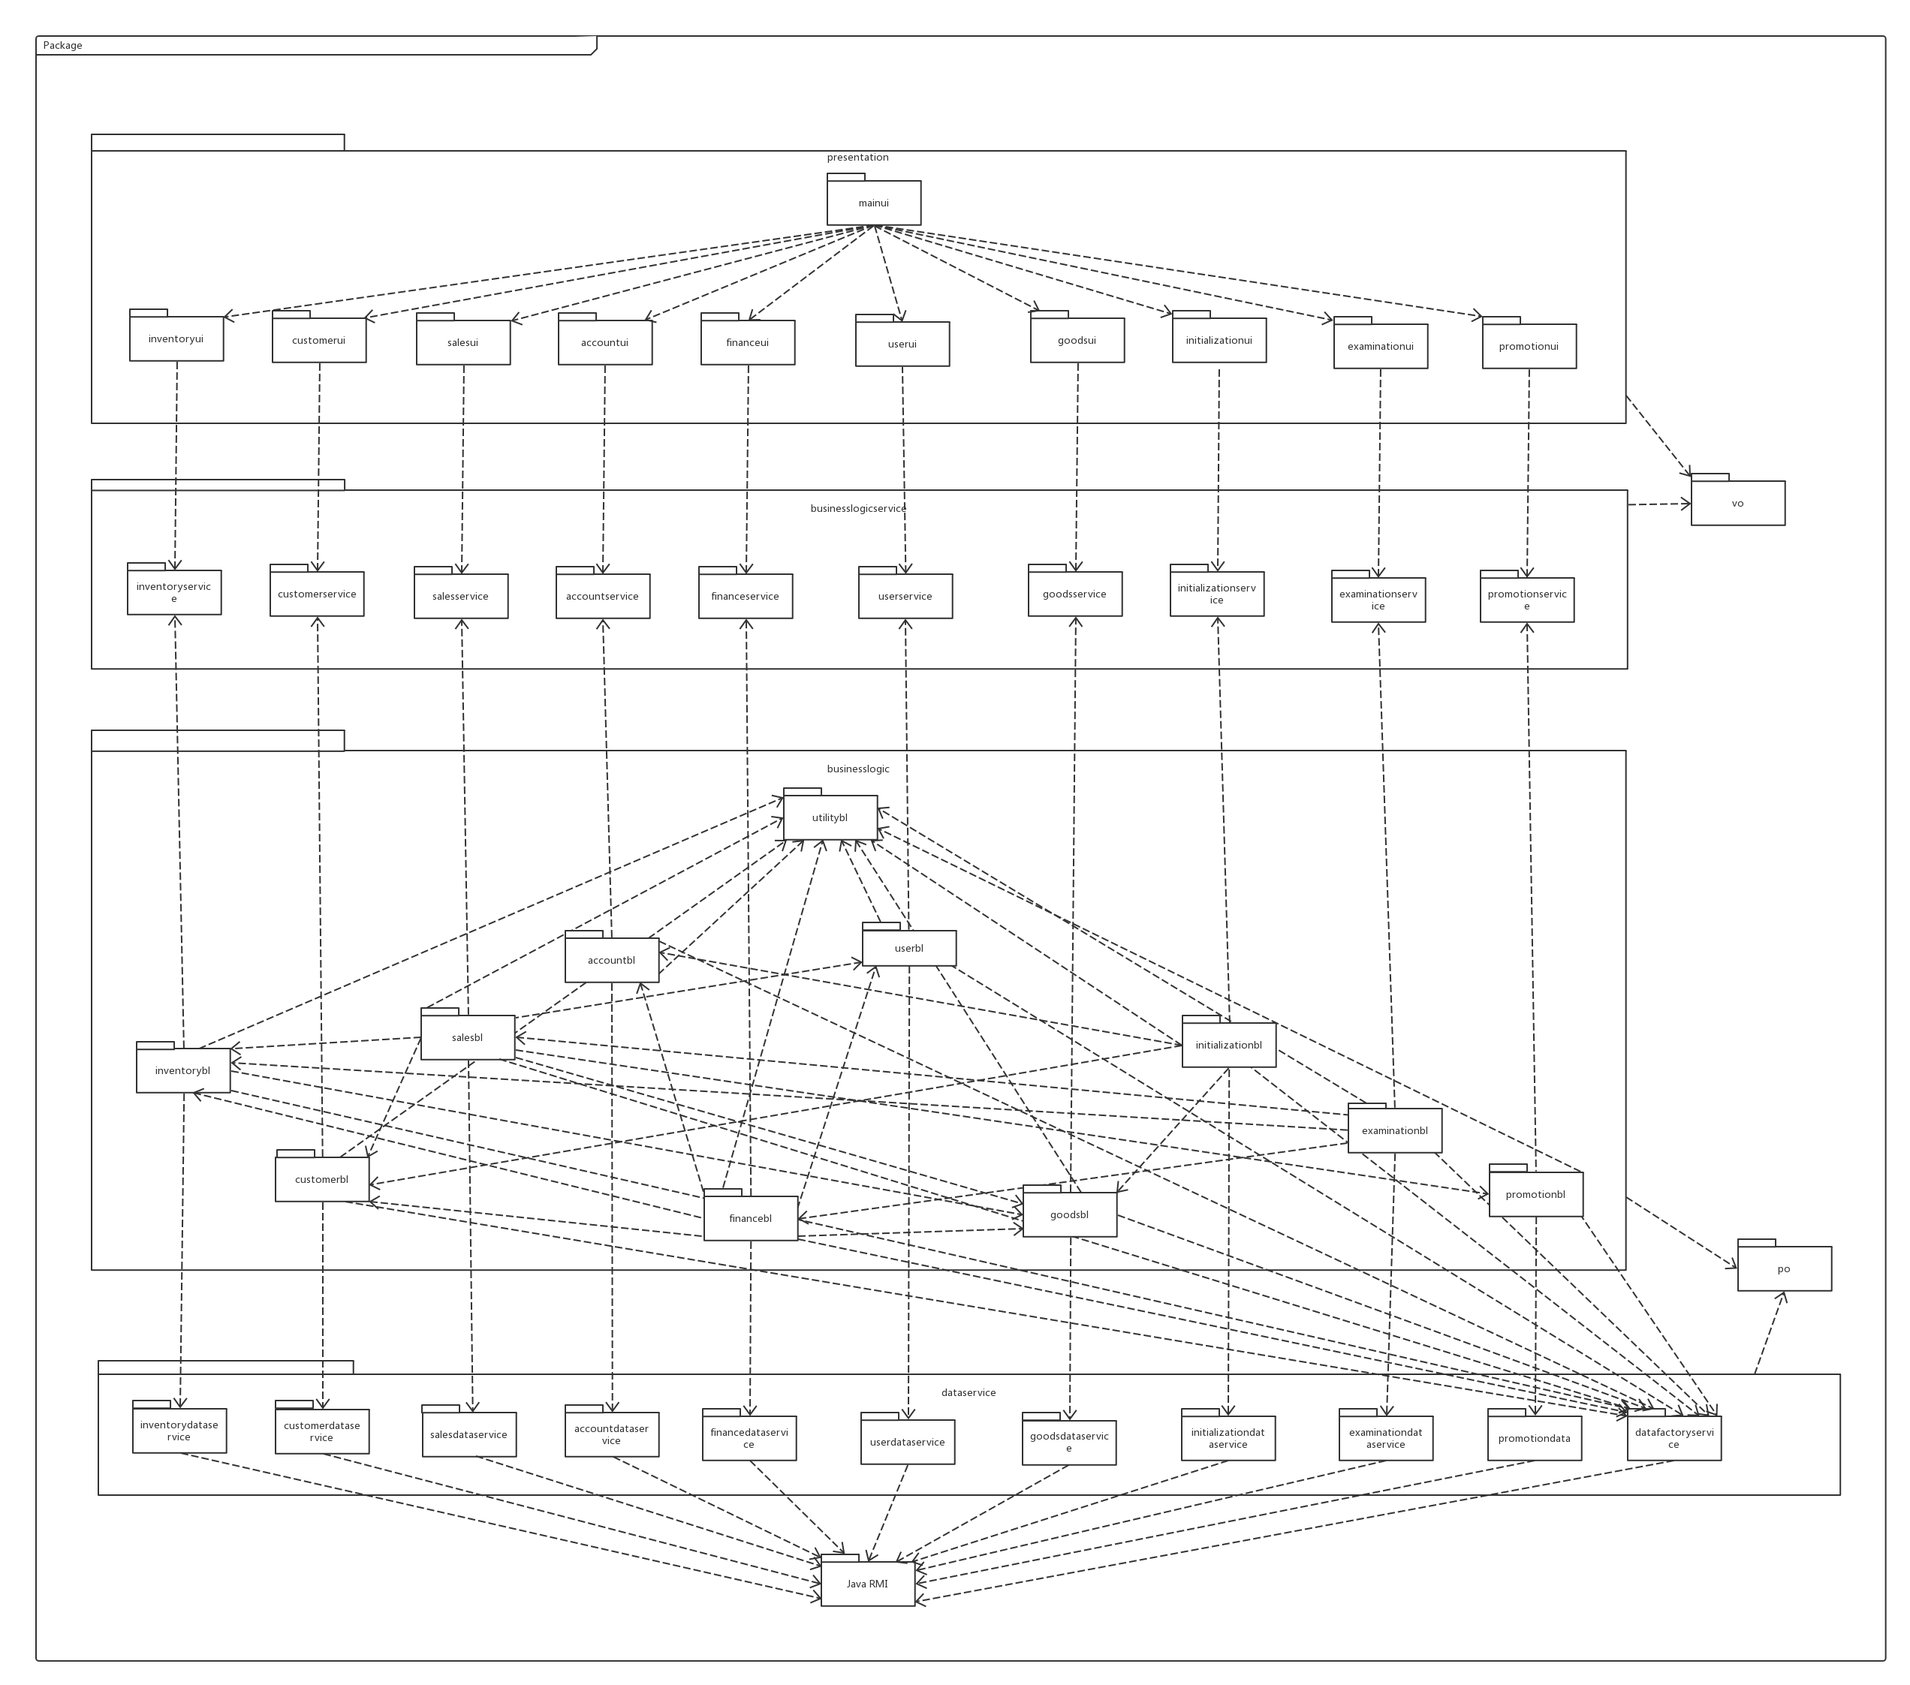
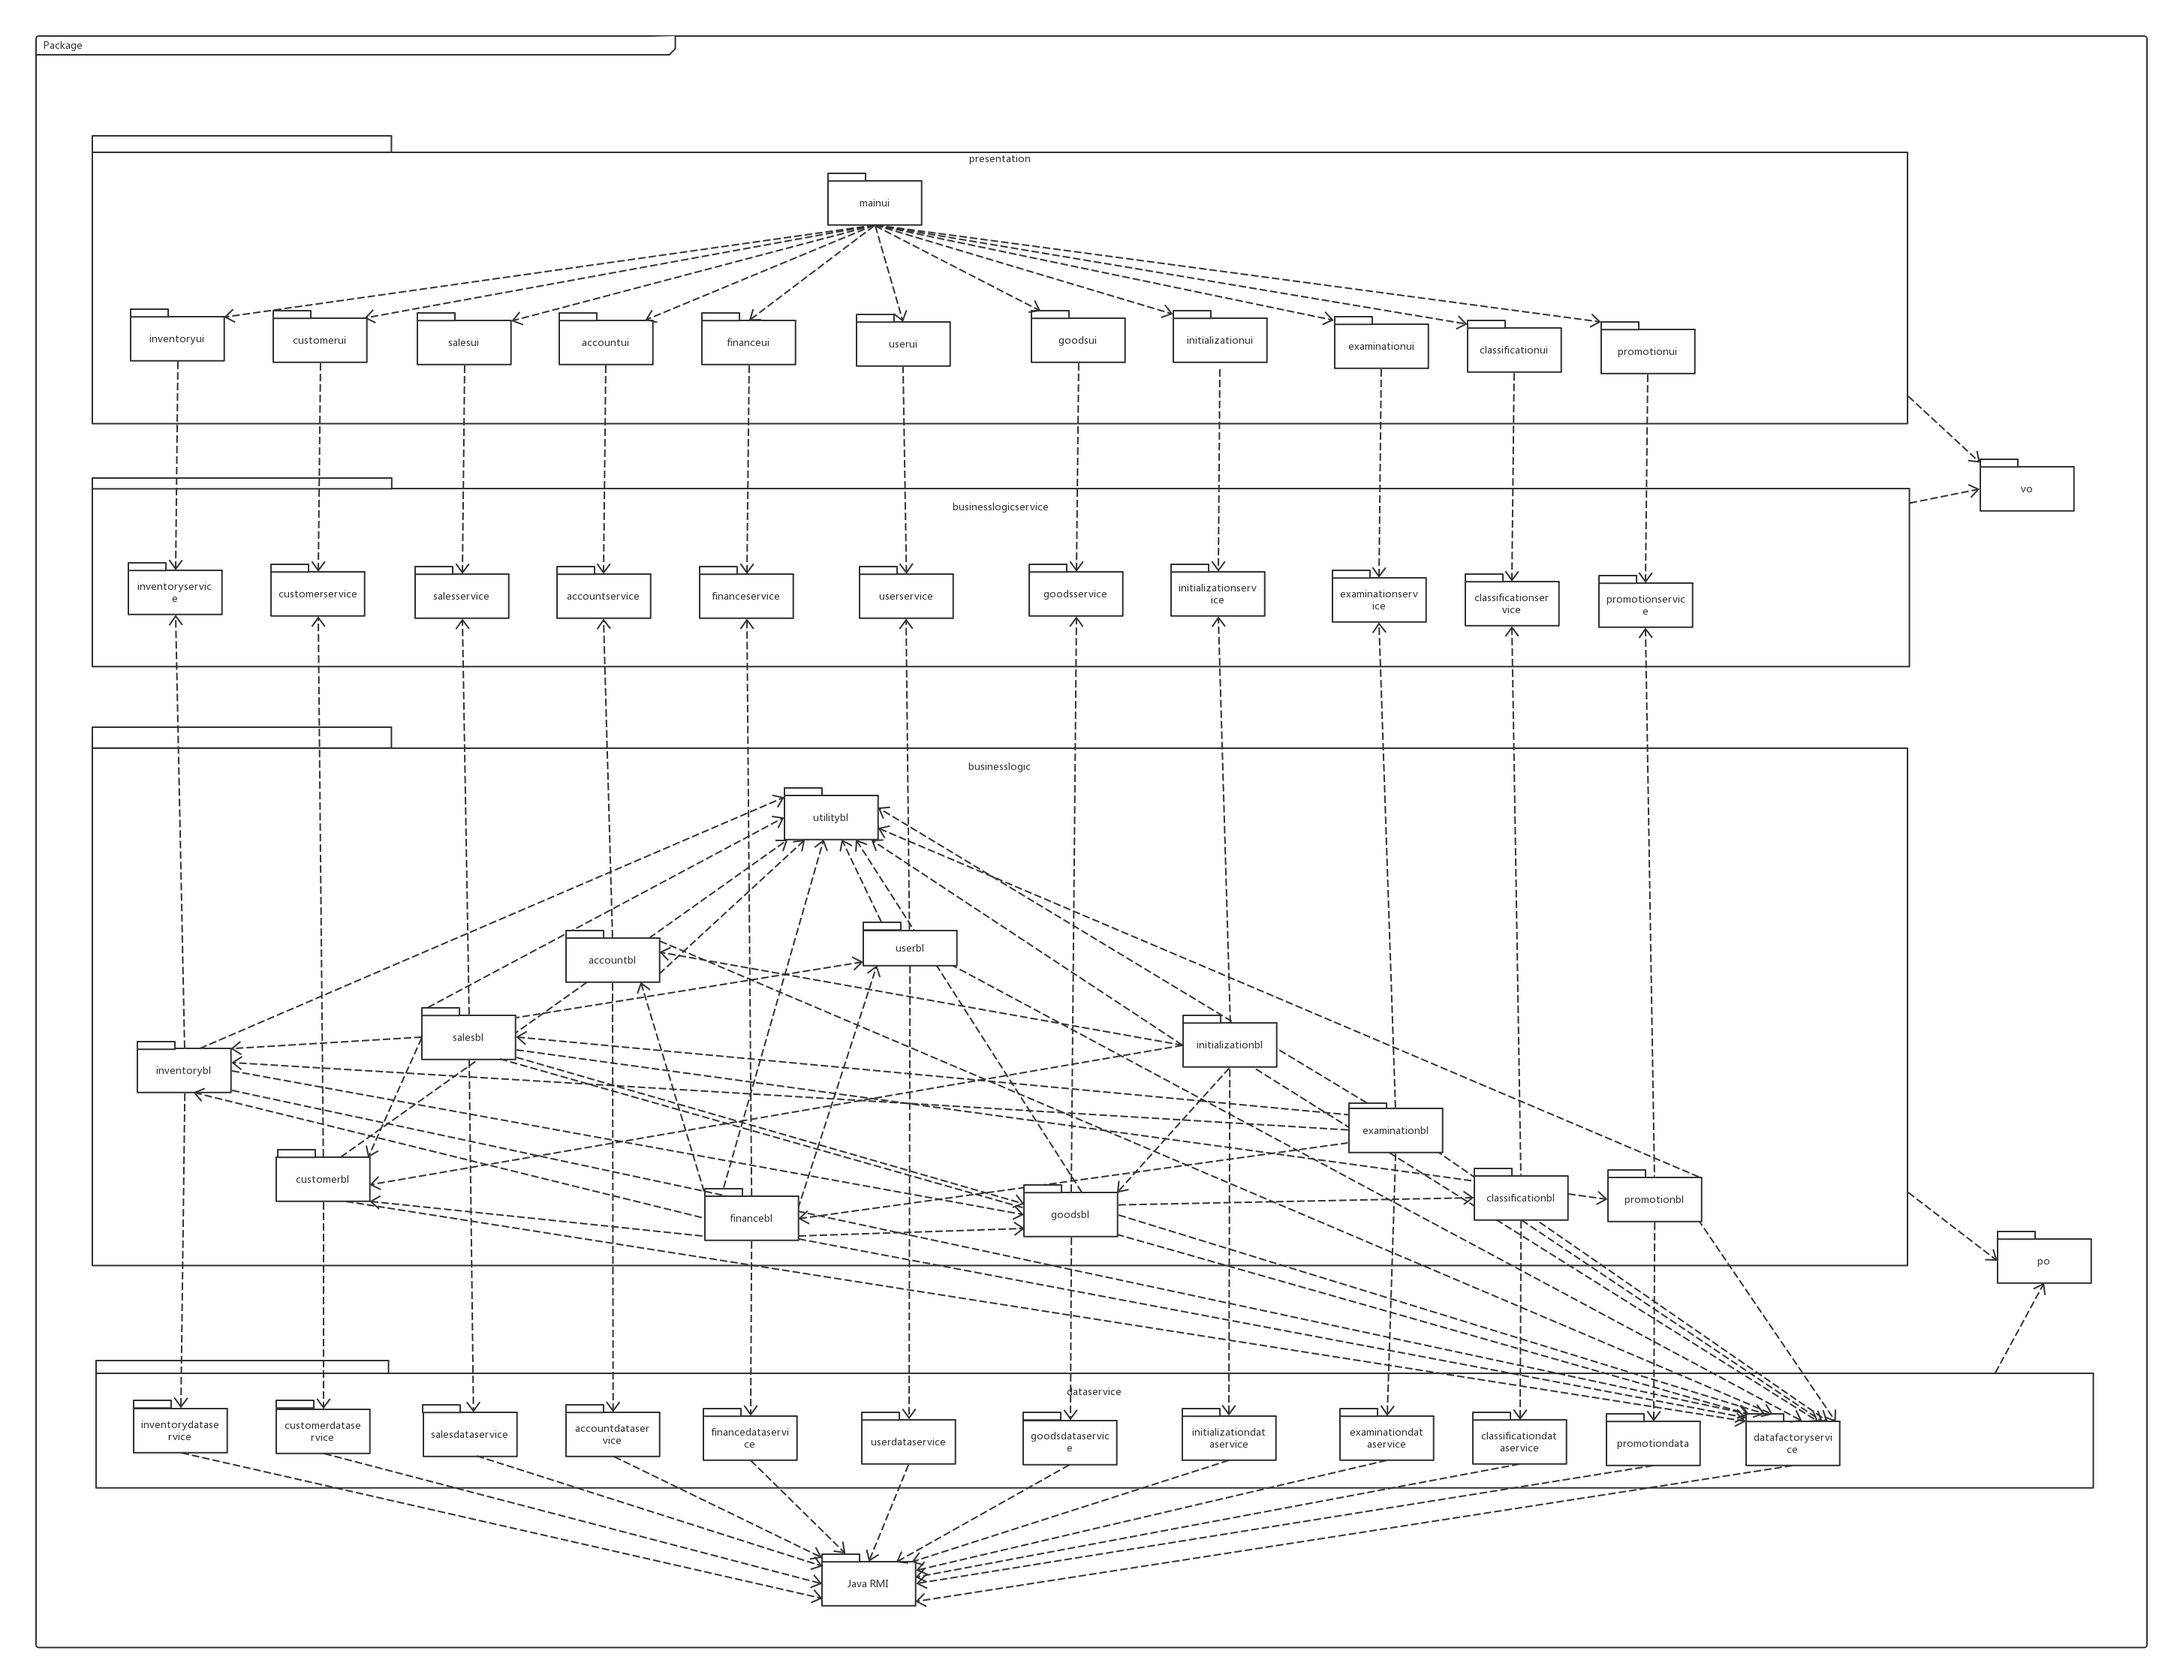
Complete 5.2; add classification into several graphs.

diff --git a/doc/灯具进销存管理系统（体系结构设计v1.0）.md b/doc/灯具进销存管理系统（体系结构设计v1.0）.md
@@ -196,7 +196,12 @@
 
 * 图 5.2-1 用户界面跳转
 
-![图 5.2-1]()
+![图 5.2-1](http://101.37.19.32:10080/horizon/LampManager/raw/develop/doc/img/%E4%BD%93%E7%B3%BB%E7%BB%93%E6%9E%84%E8%AE%BE%E8%AE%A1%E5%9B%BE%205.2-1.png)
+
+服务器端和客户端的用户界面设计接口是一致的，只是具体的页面不一样。用户界面类如图 5.2-2所示。
+
+* 图 5.2-2 用户界面类
+* ![图 5.2-2]()
 
 ### 5.2.1 用户界面层模块的职责
 
